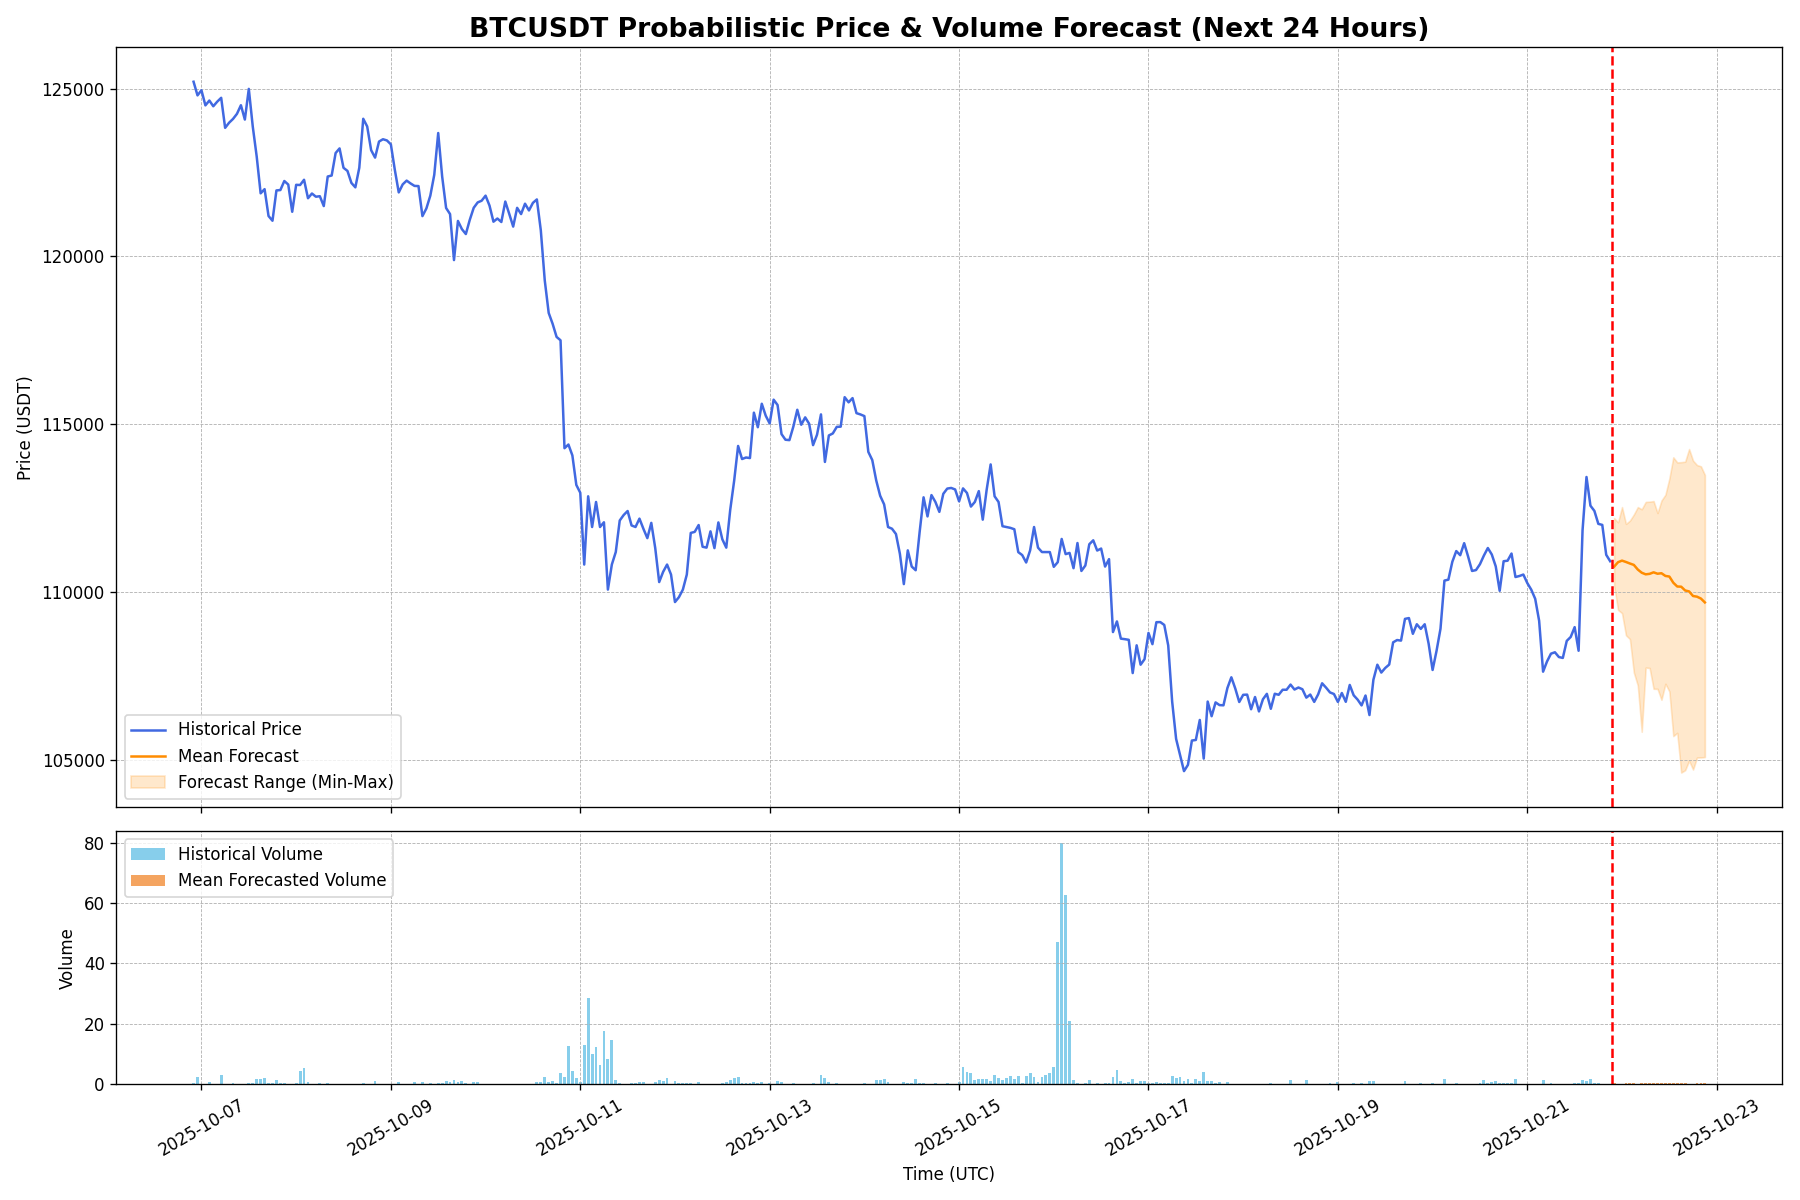
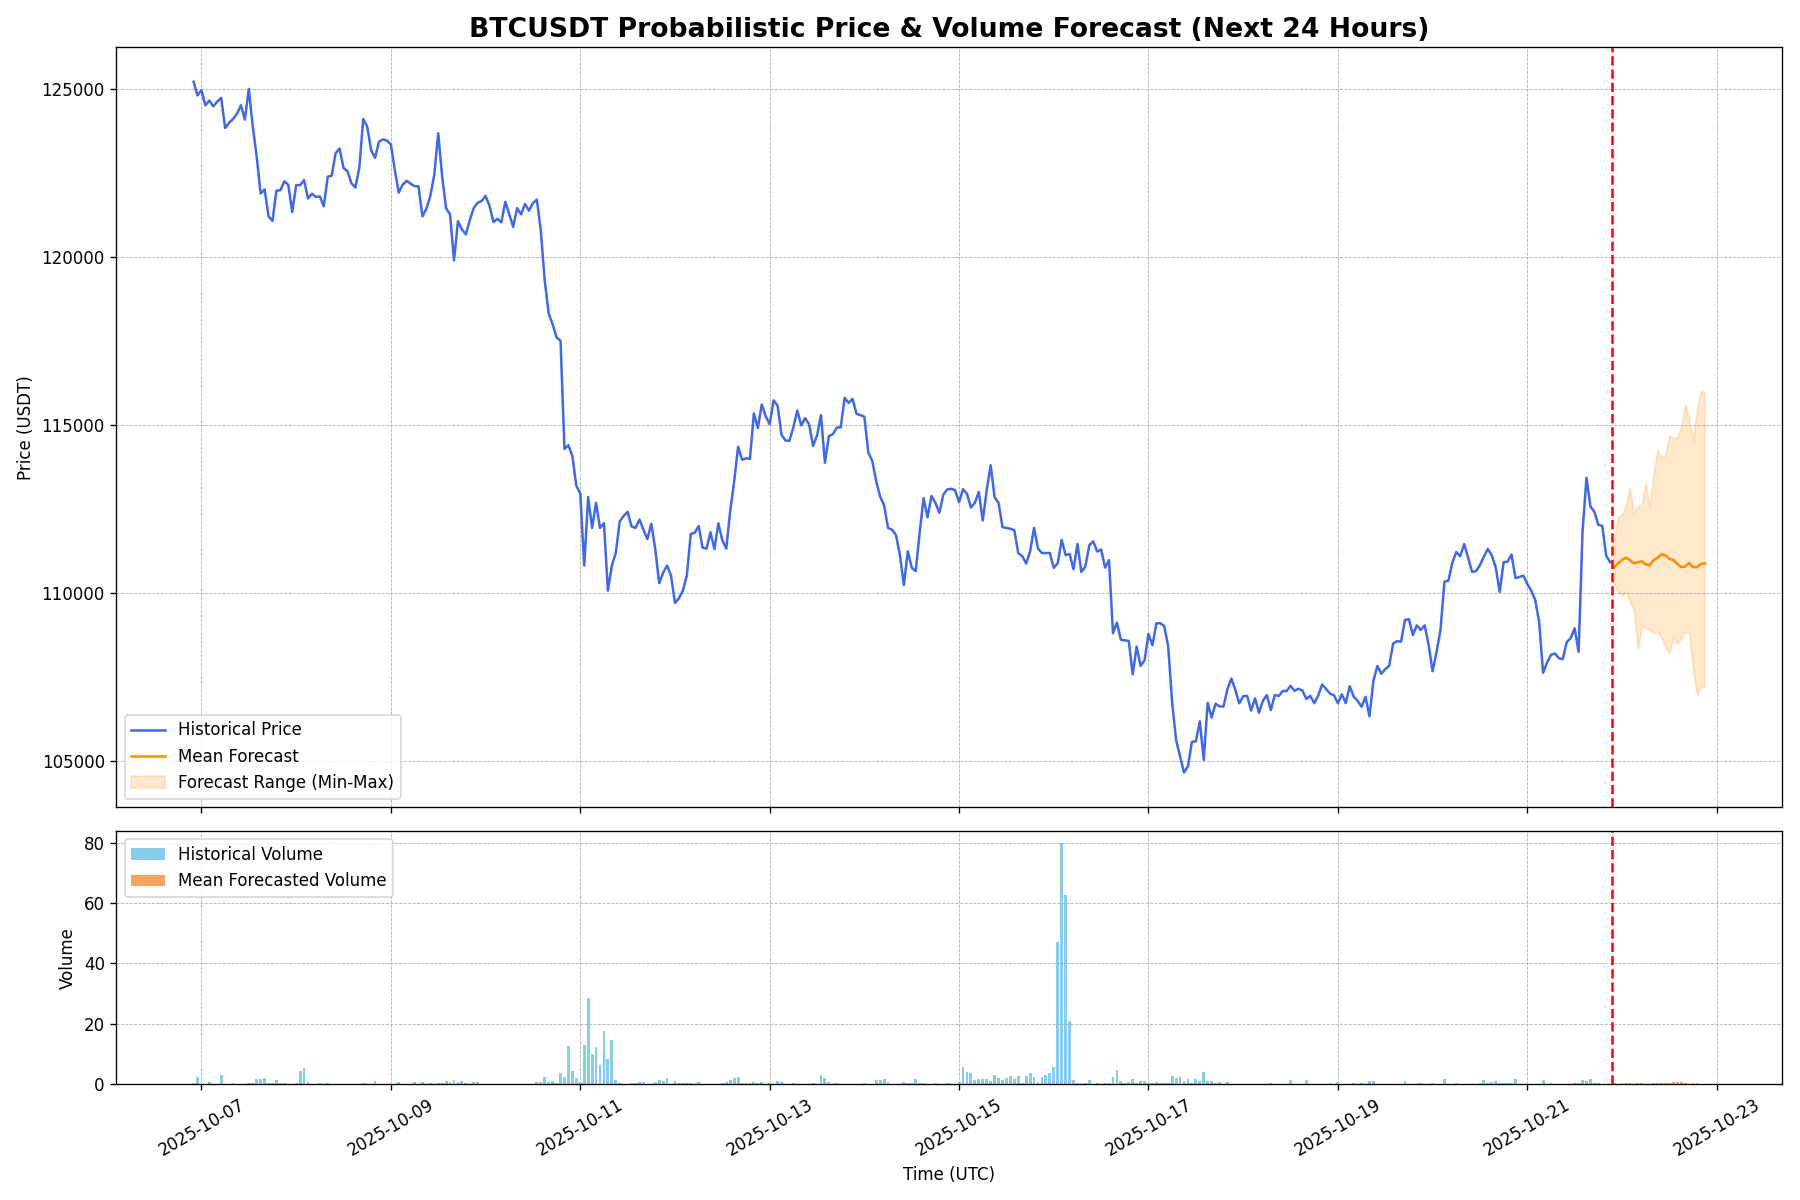
Auto-update forecast for 2025-10-21 22:16 UTC

diff --git a/index.html b/index.html
@@ -22,14 +22,14 @@
         <section id="live-dashboard">
             <h2>Live BTC/USDT Forecast Dashboard</h2>
             <div class="metadata">
-                <span>Last Updated (UTC): <strong id="update-time">2025-10-21 22:12:05</strong></span>
+                <span>Last Updated (UTC): <strong id="update-time">2025-10-21 22:16:39</strong></span>
                 <span>Data Source: Binance | Interval: 1-Hour</span>
             </div>
 
             <div class="metrics-container">
                 <div class="metric-card">
                     <h3>Upside Probability (Next 24h)</h3>
-                    <p class="metric-value" id="upside-prob">23.3%</p>
+                    <p class="metric-value" id="upside-prob">40.0%</p>
                     <div class="metric-desc">The model's confidence that the price in 24 hours will be higher than the last known price.</div>
                 </div>
                 <div class="metric-card">
